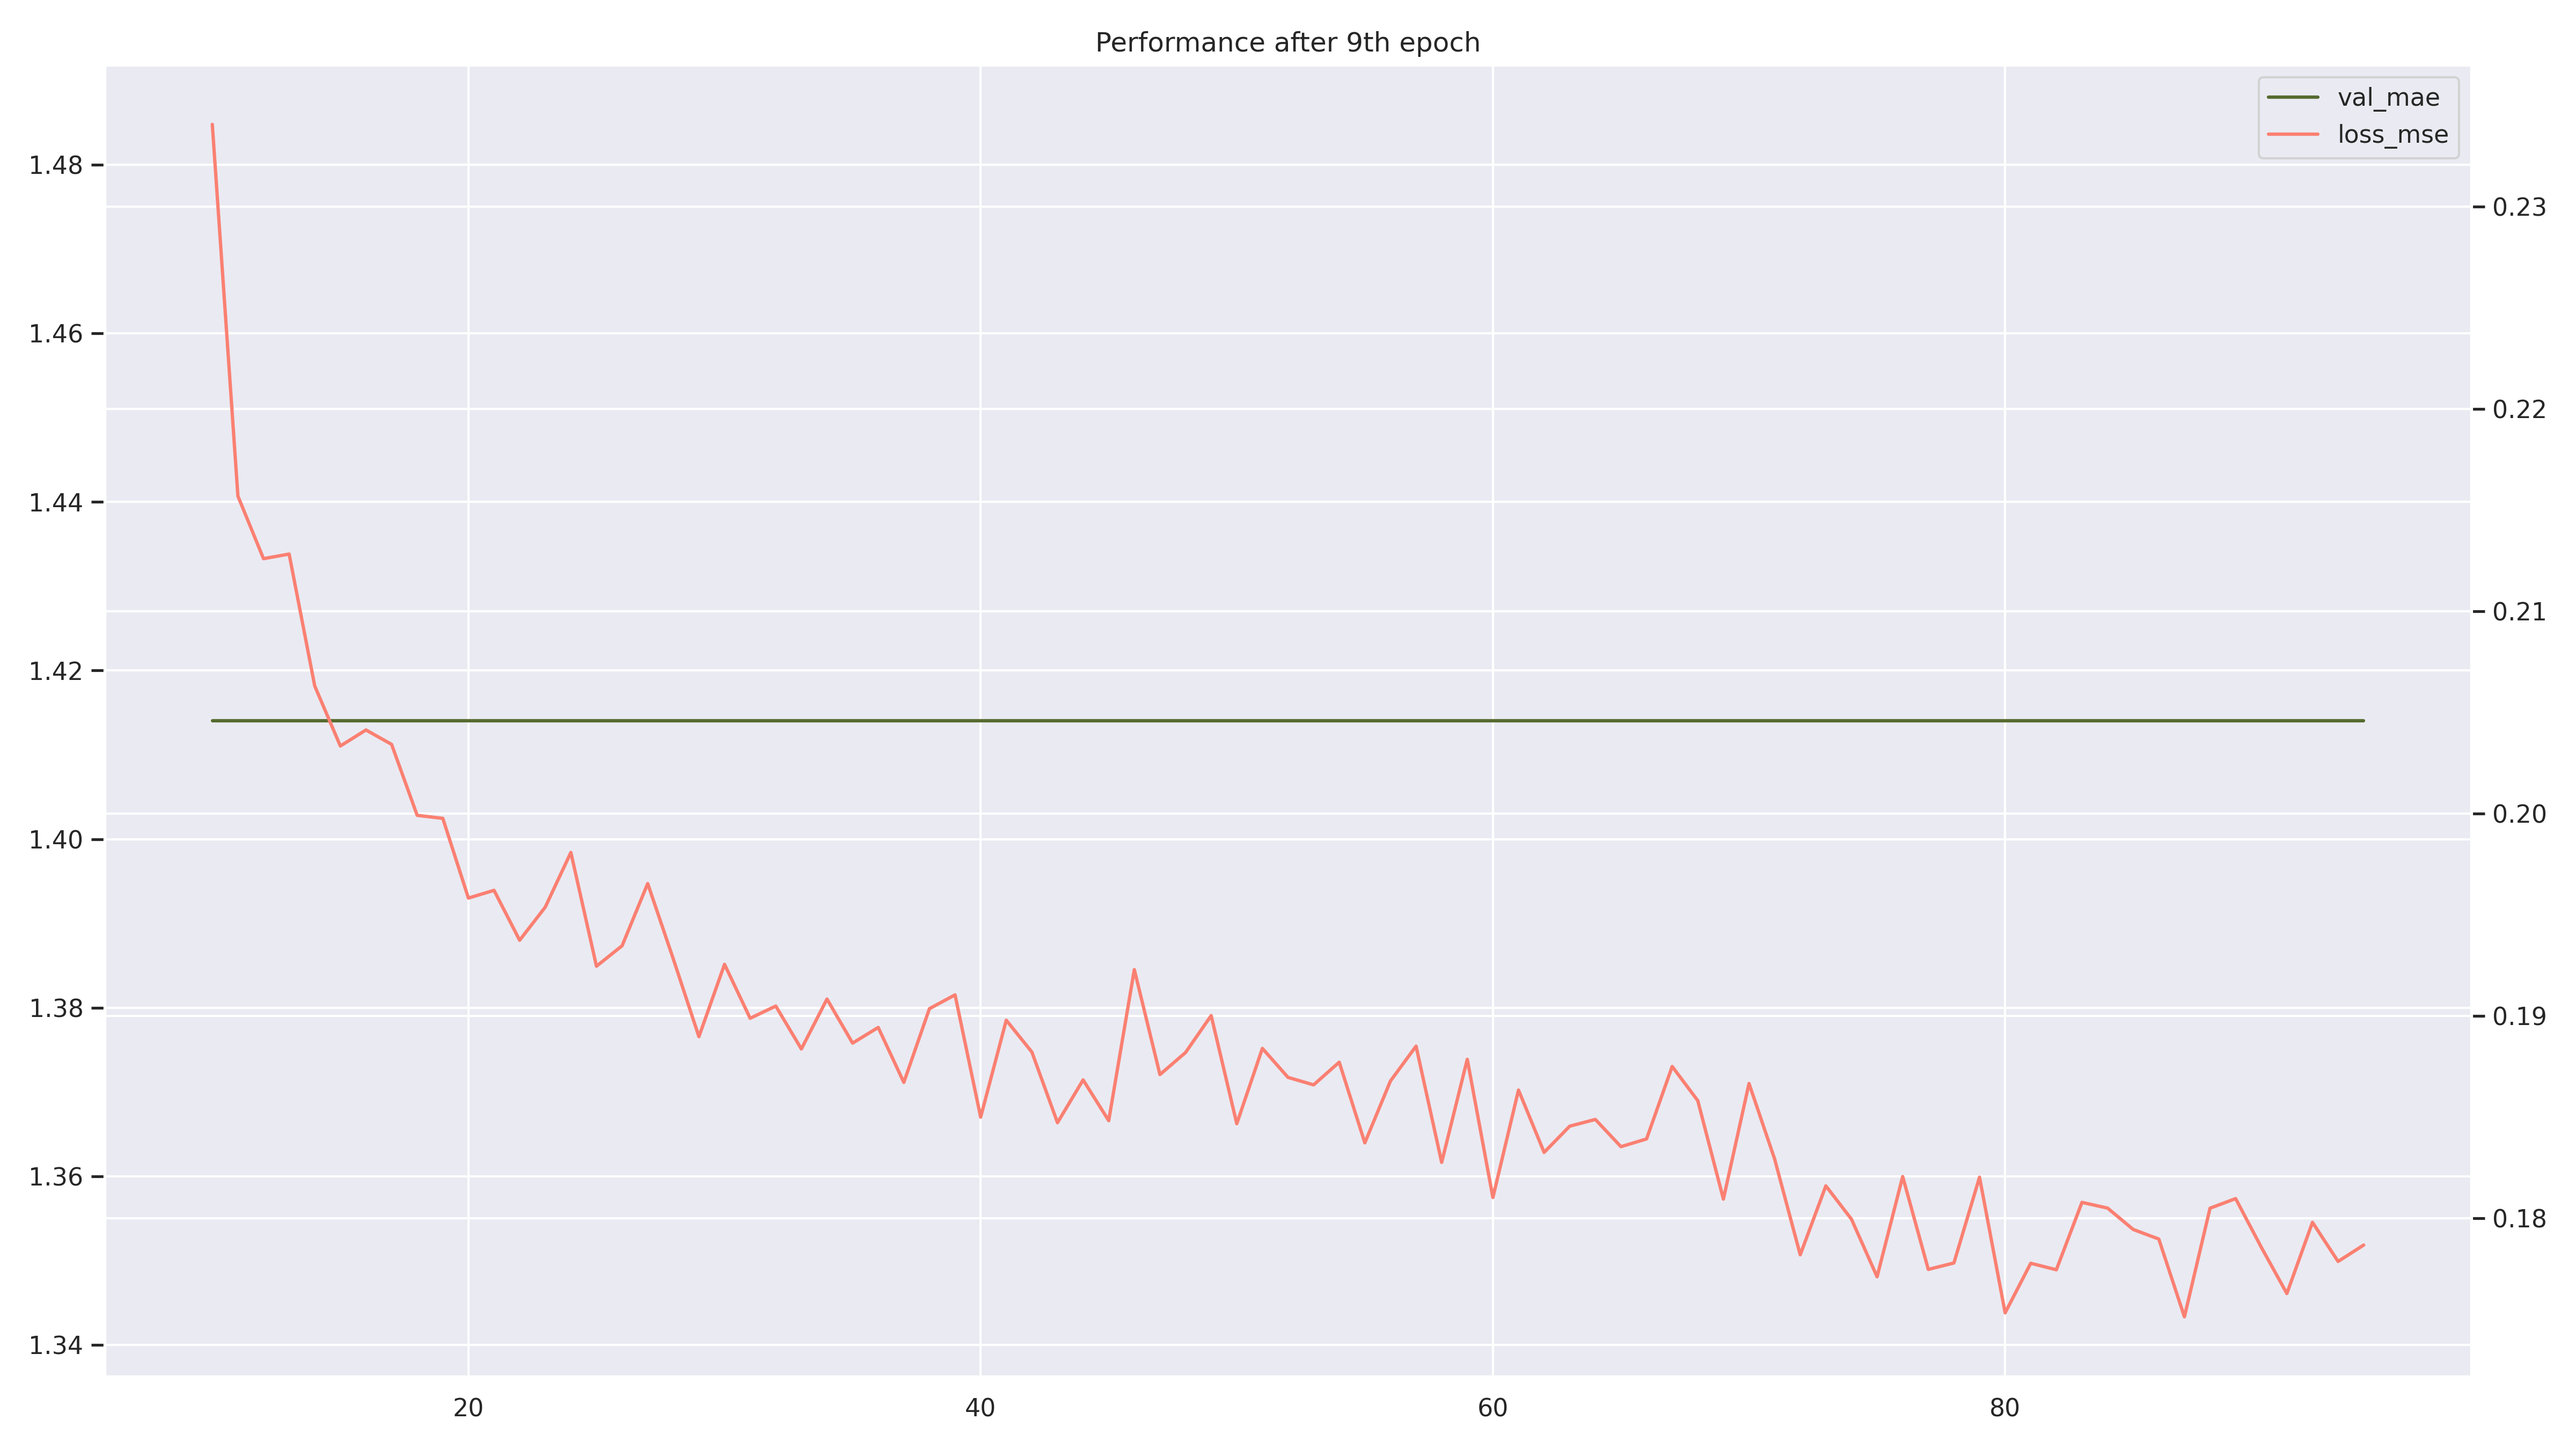
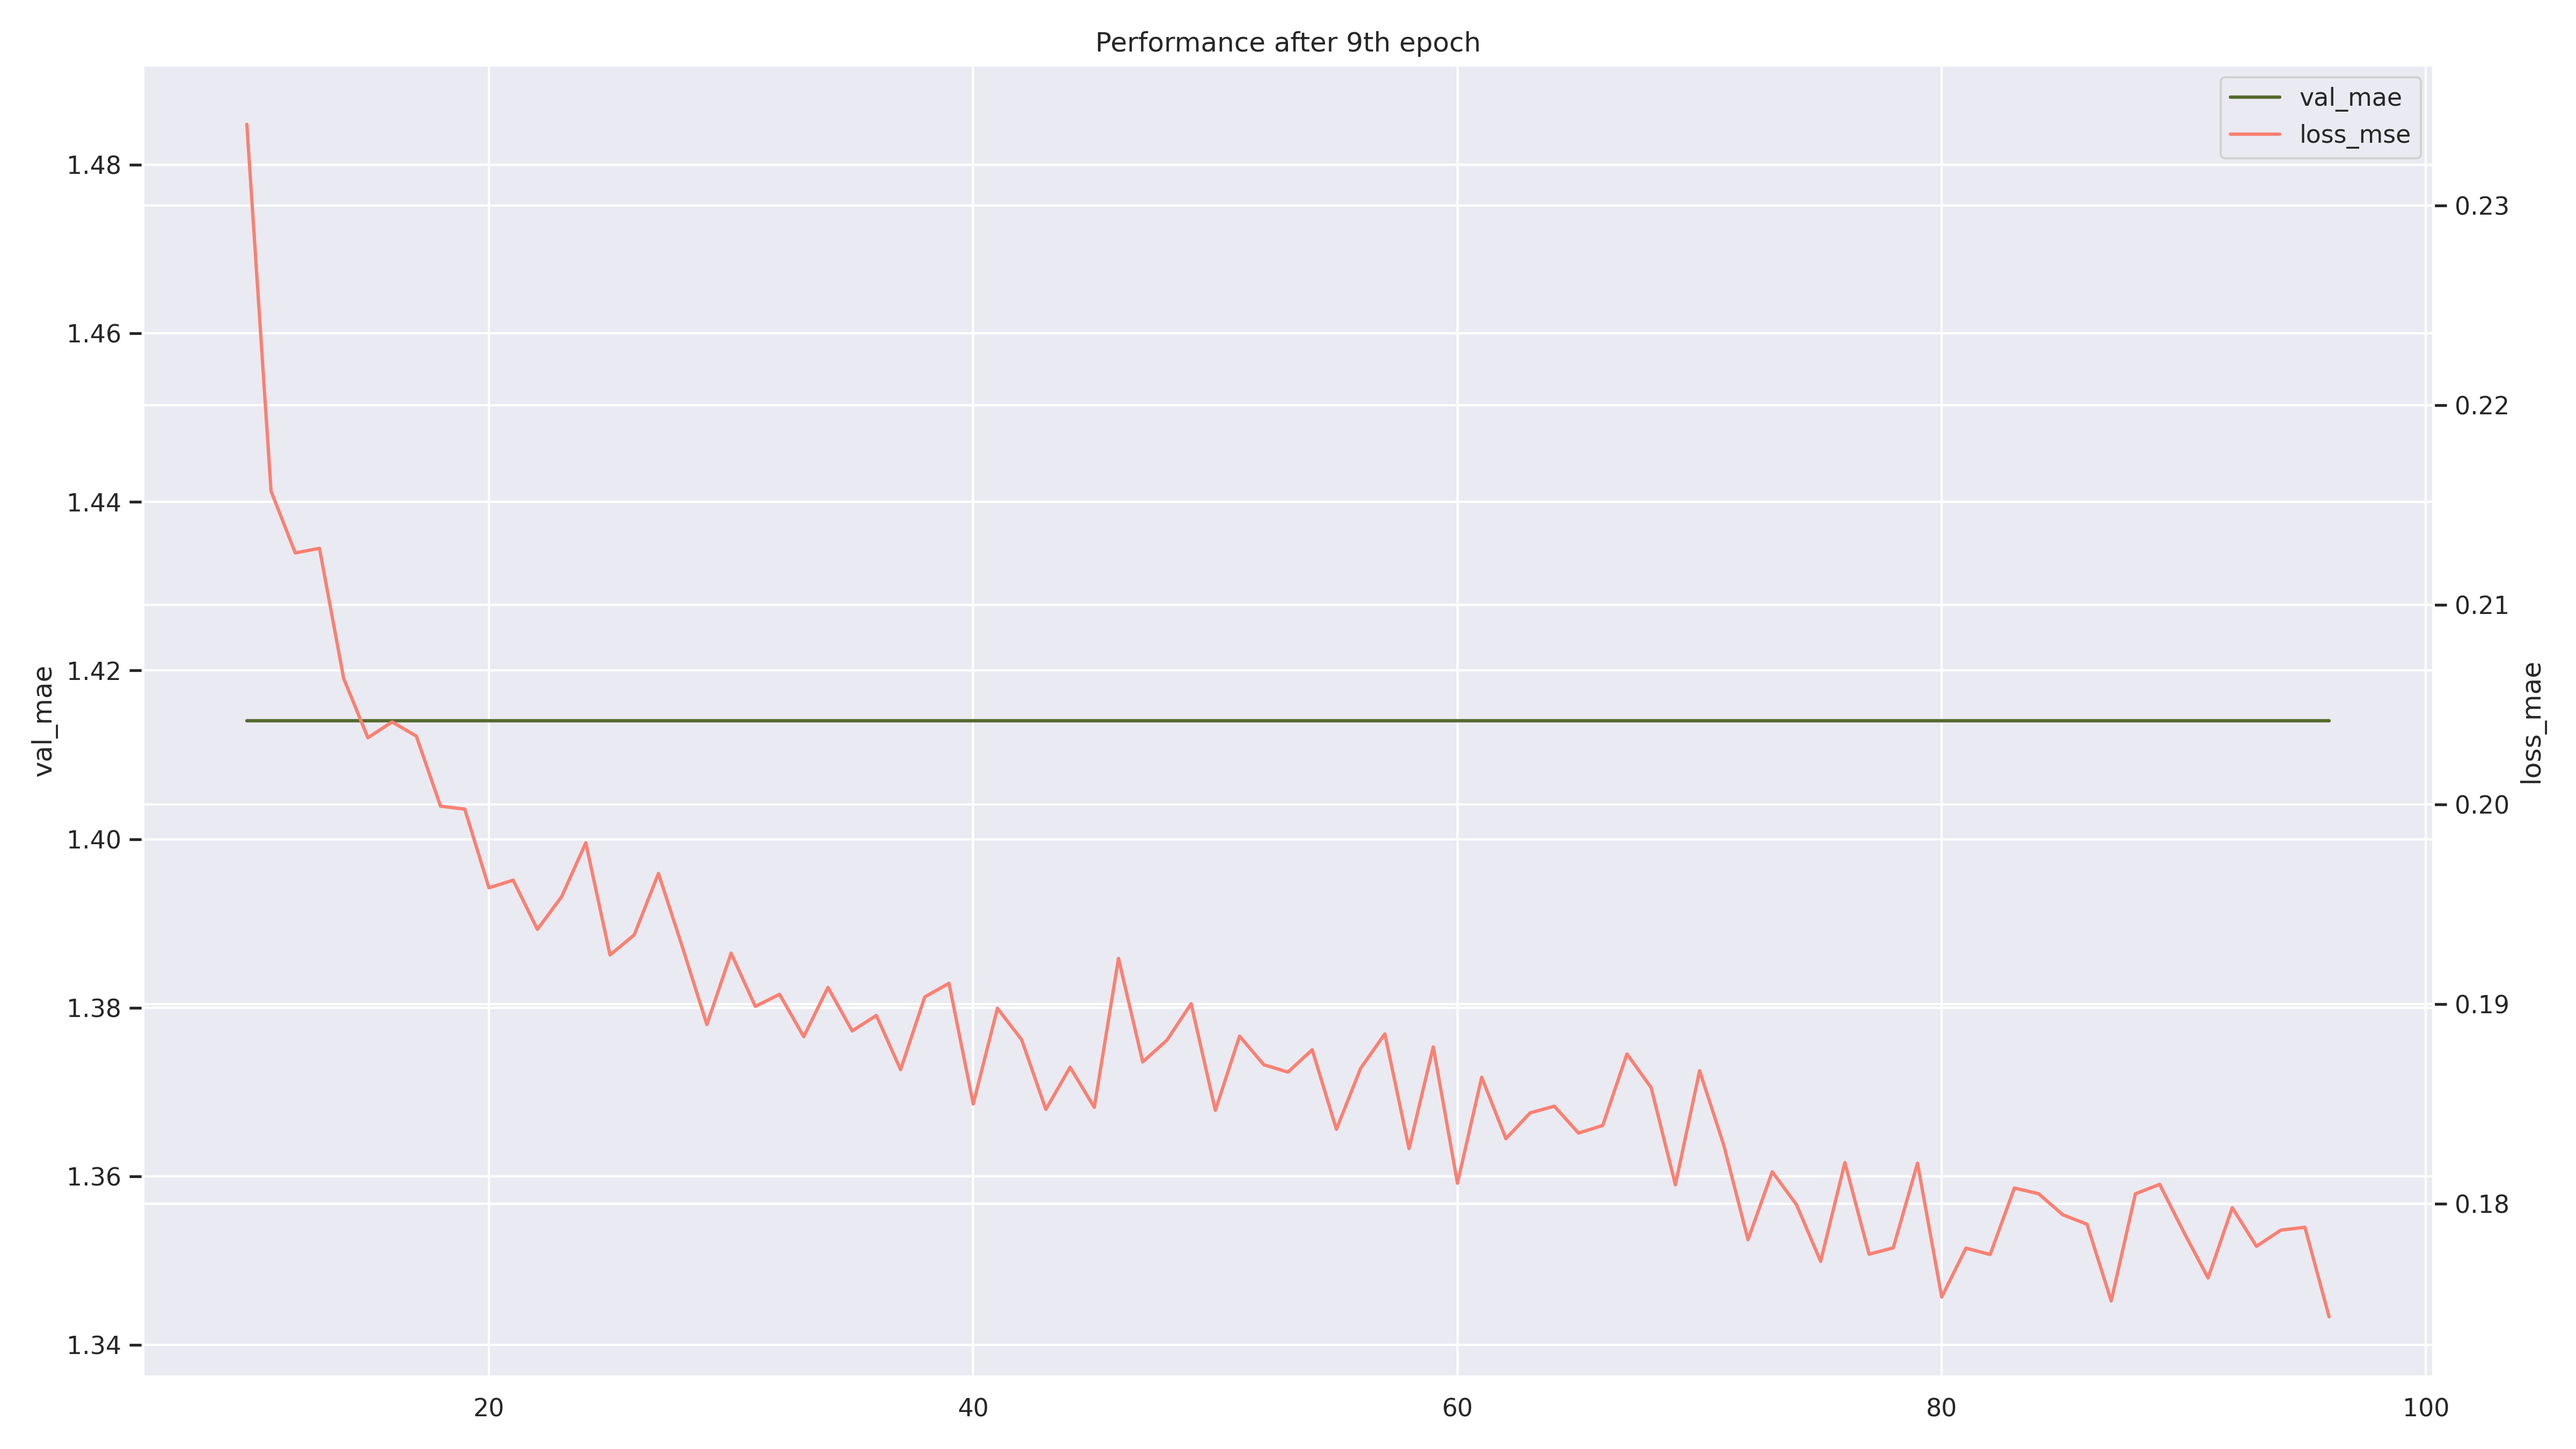
Added x-labeling

diff --git a/DSACA/metrics/plot_metrics.py b/DSACA/metrics/plot_metrics.py
@@ -31,9 +31,11 @@ def plot_metrics():
     ax = plt.subplot(1,1,1);
     ax.set_title("Performance after 9th epoch")
     line_val  = ax.plot("epoch", "val_mae", label="val_mae", data=met_df.where(met_df.epoch >= 10), color="darkolivegreen");
+    ax.set_ylabel("val_mae");
     # sns.lineplot(data=met_df.where(met_df.epoch >= 10), x="epoch", y="train_loss", ax=ax.twinx());
     axt = ax.twinx();
     line_loss = axt.plot("epoch", "train_loss", label="loss_mse", data=met_df.where(met_df.epoch >= 10), color="salmon");
+    axt.set_ylabel("loss_mae");
     lns  = line_val + line_loss;
     labs = [l.get_label() for l in lns];
     ax.legend(lns, labs);
